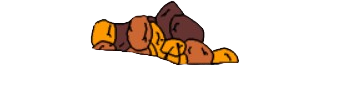
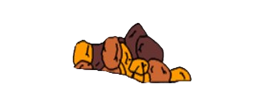
update size of pictures

Changed region(s): [[0.2667, 0.0, 0.7111, 0.8235]]

diff --git a/play.css b/play.css
@@ -156,8 +156,8 @@ body {
 }
 
 #d1 {
-    left: 33.7vw;
-    bottom: 0.8vh;
+    left: 35vw;
+    bottom: 1.5vh;
     width: 15vw;
 }
 
@@ -168,14 +168,14 @@ body {
 }
 
 #d3 {
-    left: 15vw;
-    bottom: 1vh;
+    left: 16vw;
+    bottom: 4vh;
     width: 18vw;
 }
 
 #d4 {
-    left: 18vw;
-    bottom: 14.7vh;
+    left: 19vw;
+    bottom: 16.7vh;
     width: 13vw;
 }
 
